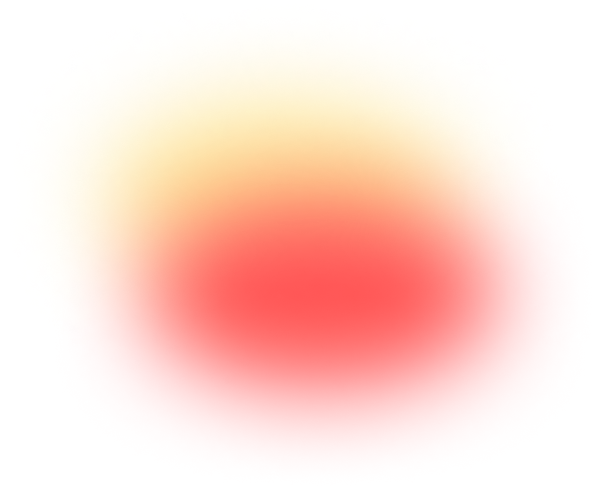
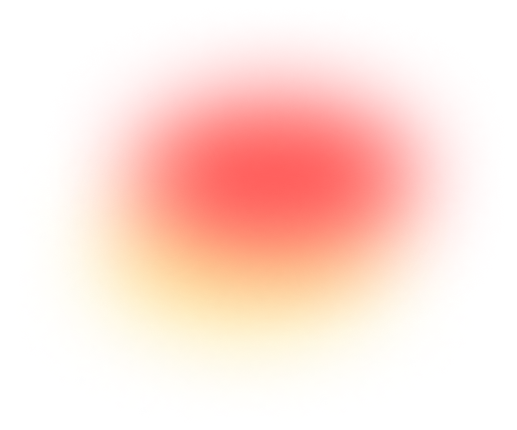
done

diff --git a/index.html b/index.html
@@ -29,11 +29,12 @@
         <section id="Home" class="Home">
             <div class="content">
                 <h1>Make The Best Financial Decisions</h1>
-                <p>Cum et convallis risus placerat aliquam, nunc. Scelerisque aliquet faucibus tincidunt eu adipiscing sociis arcu lorem porttitor.</p>
+                <img class="back-img" src="Assets/Group 35930.png" alt="backing">
+                <p style="color: #808080;">Cum et convallis risus placerat aliquam, nunc. Scelerisque aliquet faucibus tincidunt eu adipiscing sociis arcu lorem porttitor.</p>
                 <div class="actions">
                     <button>Get Started &#8594;</button>
                     <div class="watch-video">
-                        <i class="fa-sharp fa-regular fa-circle-play"></i>
+                        <img src="Assets/Group 3.png" alt="">
                         <h2>Watch Video</h2>
                     </div>
                 </div>
@@ -44,31 +45,34 @@
                 <img src="https://uifry-landing-page-mocha.vercel.app/static/media/iphone.e829d7b2d688d303be39ba1eb8310f8d.svg" alt="Phone">
             </div>
         </section>
-        <section id="Features" class="section" style="display: flex; justify-content: space-between; margin: 0 60px;
-  padding: 2em;"><div class="colour-background"><img src="Assets/features-1.png" alt=""></div>
+        <section id="Features" class="section"><div><img src="Assets/features-1.png" alt=""></div>
         <div style=" padding: 11rem;"><h3>FEATURES</h3><h1>Uifry Premium</h1>
-        <h4>Budgeting Intervals</h4><p>Cum et convallis risus placerat aliquam, nunc. Scelerisque aliquet faucibus tincidunt eu adipiscing sociis arcu lorem porttitor.</p>
-       <h4>Budgeting Intervals</h4><p>Cum et convallis risus placerat aliquam, nunc. Scelerisque aliquet faucibus tincidunt eu adipiscing sociis arcu lorem porttitor.</p>
-<h4>Budgeting Intervals</h4><p>Cum et convallis risus placerat aliquam, nunc. Scelerisque aliquet faucibus tincidunt eu adipiscing sociis arcu lorem porttitor.</p></div></section>
+            <div  class="img-contain">
+                <img class="cube" src="Assets/star-05.png" alt="">
+        <h4>Budgeting Intervals</h4> </div><p>Cum et convallis risus placerat aliquam, nunc. Scelerisque aliquet faucibus tincidunt eu adipiscing sociis arcu lorem porttitor.</p>
+        <div  class="img-contain">
+            <img class="cube" src="Assets/cube-04.png" alt="" >
+    <h4>Budgeting Intervals</h4> </div><p>Cum et convallis risus placerat aliquam, nunc. Scelerisque aliquet faucibus tincidunt eu adipiscing sociis arcu lorem porttitor.</p>
+    <div  class="img-contain">
+        <img class="cube" src="Assets/cube-02.png" alt="">
+<h4>Budgeting Intervals</h4> </div><p>Cum et convallis risus placerat aliquam, nunc. Scelerisque aliquet faucibus tincidunt eu adipiscing sociis arcu lorem porttitor.</p></div></section>
 
-        <section id="Advantages" class="section" style="display: flex; justify-content: space-between; margin: 0 60px;
-  padding: 2em;">
-            <div style="padding: 9.8rem 0;"><h3 style="font-size: 18px; font-weight: 500; line-height: 28px; letter-spacing: 1.8px; color:#ff5555">ADVANTAGES</h3><h1 style="font-size: 48px; font-weight: 800; line-height: 48px;">Why Choose Uifry?</h1>
-            <h4 style="font-size: 28px; font-weight: 600; line-height: 42px;">Clever Notifications</h4><p style="font-size: 16px; line-height: 24px;">Arcu at dictum sapien, mollis. Vulputate sit id accumsan, ultricies. In ultrices malesuada elit mauris etiam odio. Duis tristique lacus, et blandit viverra nisl velit. Sed mattis rhoncus, diam suspendisse sit nunc, gravida eu. Lectus eget eget ac dolor neque lorem sapien, suspendisse aliquam.</p>
+        <section id="Advantages" class="section">
+            <div class="Advantages-div"><h3>ADVANTAGES</h3><h1>Why Choose Uifry?</h1>
+            <h4 ><img src="Assets/Group 35899.png" alt="" style="margin-right: 10px; height: 25px; width: 25px;">Clever Notifications</h4><p>Arcu at dictum sapien, mollis. Vulputate sit id accumsan, ultricies. In ultrices malesuada elit mauris etiam odio. Duis tristique lacus, et blandit viverra nisl velit. Sed mattis rhoncus, diam suspendisse sit nunc, gravida eu. Lectus eget eget ac dolor neque lorem sapien, suspendisse aliquam.</p>
             </div>
-        <div class="colour-background"><img src="https://uifry-landing-page-mocha.vercel.app/static/media/second-img.0e3d2caf1a3a57428add88c63a589437.svg" alt=""></div></section>
+        <div ><img src="Assets/Group 1000004726.png" alt=""></div></section>
             
-        <section id="section4" class="section" style="display: flex; justify-content: space-between; margin: 0 60px;
-  padding: 2em;"><div><img src="https://uifry-landing-page-mocha.vercel.app/static/media/third-img.a8f2cb7788197e3c2031ed2987f278e7.svg" alt=""></div>
-            <div style="padding: 8rem;"><h1 style="font-size: 28px; font-weight: 600; line-height: 42px;">Fully Customizable</h1>
+        <section id="section4" class="section"><div><img src="https://uifry-landing-page-mocha.vercel.app/static/media/third-img.a8f2cb7788197e3c2031ed2987f278e7.svg" alt=""></div>
+            <div style="padding: 8rem;"><h1><img src="Assets/Group 35900.png" alt="" style=" margin-right: 10px; height: 25px; width: 25px;">Fully Customizable</h1>
            <p style="font-size: 16px; line-height: 24px;">Arcu at dictum sapien, mollis. Vulputate sit id accumsan, ultricies. In ultrices malesuada elit mauris etiam odio. Duis tristique lacus, et blandit viverra nisl velit. Sed mattis rhoncus, diam suspendisse sit nunc, gravida eu. Lectus eget eget ac dolor neque lorem sapien, suspendisse aliquam.</p></div></section>
-        <section id="section5" class="section"><div style="text-align: center; margin: 0 60px;
-  padding: 2em;"><h6 style="font-size: 16px; line-height: 24px;">TESTIMONIAL</h6><h1 style="font-size: 36px; font-weight: 700; line-height: 40px">What Our Users Say About Us?</h1></div>
-            <div style="display: flex; justify-content: space-between;"><div class="colour-background"><img src="https://uifry-landing-page-mocha.vercel.app/static/media/img.0594d4199af732a59e88e758da37d3d4.svg" alt=""></div>
-                <div style="padding: 8rem;"><h3 style="font-size: 30px; font-weight: 600; line-height: 36px;">The Best Financial Accounting App Ever!</h3>
+        <section id="section5" class="section"><div style="text-align: center; margin: 0 60px; 
+  padding: 2em;"><h6 style="font-size: 16px; line-height: 24px; color: #ff4500; line-height: 70px;">TESTIMONIAL</h6><h1 style="font-size: 36px; font-weight: 700; line-height: 40px">What Our Users Say About Us?</h1></div>
+            <div style="display: flex; justify-content: space-between;"><div><img src="Assets/Group 1000004727.png" alt=""></div>
+                <div style="padding: 8rem;"><h3 style="font-size: 30px; font-weight: 600; line-height: 36px; ">The Best Financial Accounting App Ever!</h3>
                <p style="font-size: 18px; line-height: 28px; color:#808080">“Arcu at dictum sapien, mollis. Vulputate sit id accumsan, ultricies. In ultrices malesuada elit mauris etiam odio. Duis tristique lacus, et blandit viverra nisl velit. Sed mattis rhoncus, diam suspendisse sit nunc, gravida eu. Lectus eget eget ac dolor neque lorem sapien, suspendisse aliquam.”</p><img src="https://uifry-landing-page-mocha.vercel.app/static/media/user.6d530d352bf215a5c3792e0ff5bf3fc4.svg" alt=""><img src="https://uifry-landing-page-mocha.vercel.app/static/media/user-sec.f1d05c00cf2eb53efb60280a62e9c101.svg" alt=""><h5 style="font-size: 18px; font-weight: 600; line-height: 28px;">Nick Jonas</h5></div></div></section>
 
-               <section id="section6" class="section" style="margin: 0 60px;
+               <section id="section6" class="section" style="margin: 0 60px; 
   padding: 2em;"><div class="title"><h5 style="font-size: 16px; font-weight: 500; line-height: 28px;">FAQ</h5>
             <h1 style="font-size: 48px; font-weight: 700; line-height: 48px;">Frequently Asked <br>Questions</h1></div>
             <div style="display: flex; justify-content: space-between; padding: 38px 0;">
@@ -102,25 +106,38 @@
             </div> </div></section>
             
             <section class="background-section" id="section7">
+
                 <div style="display: flex; flex-direction: column; align-items: start">
                 <h1 style="color: white; font-size: 52px; font-weight: 800; padding-right: 110px;">Ready To Get Started?</h1>
                 <p style="color: white; font-size: 20px; color: #808080; font-weight: 500; line-height: 50px;">Risus habitant leo egestas mauris diam eget morbi tempus vulputate.</p>
-                <button style="padding: 15px 35px; font-size: 16px; font-weight: 500;">Download App</button>
+                <div class="button-img">
+                    <button class="button-with-image">Download App <img src="Assets/apple.png" alt=""></button>
+                </div>
             </div>
             <div> <img src="Assets/iPhone 13 Pro.png" alt=""></div>
               
             </section>
             <!-- New Section with Image, Contact Info, and Links -->
         <section id="contact-links" class="section" style="margin: 0 60px;
-  padding: 7em 3em;">
+  padding: 7em 3em; display: flex;">
             <div class="contact-info" >
                 <div style="display: flex; gap: 8px; line-height: 24px; font-size: 16px;">
                 <img src="Assets/logo.png" alt="logo">
                 <img src="Assets/Vector.png" alt="name">
             </div>
                 <div class="contact-details">
+                    <div style="display: flex;  gap: 8px">
+                    <img src="Assets/mail.svg" alt="">
+              
+                
                     <p style="line-height: 24px; font-size: 16px;">help@frybix.com</p>
+                </div>
+                    <div style="display: flex ;  gap: 8px">
+                    <img src="Assets/phone.svg" alt="">
+              
                     <p style="line-height: 24px; font-size: 16px;">+123 445 667 889</p>
+                </div>
+             
                 </div>
             </div>
             <div class="links-info">

diff --git a/style.css b/style.css
@@ -99,11 +99,19 @@ main {
   flex: 1;
   padding: 1em;
 }
+#Home .back-img {
+  left: 20%;
+  position: absolute;
+  top: 40px;
+  right: 50px;
+  width: 30%;
+  z-index: -1;
+}
 
 #Home h1 {
   font-size: 60px;
   font-weight: bolder;
-  line-height: 1.0;
+  line-height: 1;
 }
 
 #Home p {
@@ -114,6 +122,7 @@ main {
 #Home .actions {
   display: flex;
   align-items: center;
+  
 }
 
 #Home .actions button {
@@ -140,6 +149,7 @@ main {
   font-weight: 500;
   padding: 30px;
   cursor: pointer;
+  gap:10px
 }
 
 .watch-video i {
@@ -151,10 +161,9 @@ main {
   color: var(--custom-color);
 }
 
-.watch-video h2{
-font-size: 20px; 
-font-weight: 600; 
-
+.watch-video h2 {
+  font-size: 20px;
+  font-weight: 600;
 }
 /* colour background */
 
@@ -167,6 +176,7 @@ font-weight: 600;
   align-items: flex-end;
   justify-content: flex-end;
 }
+
 .box {
   color: var(--primary-color);
   background-color: var(--custom-color);
@@ -192,6 +202,13 @@ font-weight: 600;
   font-weight: 600;
   margin: 20px;
 }
+
+#Features {
+  display: flex;
+  justify-content: space-between;
+  margin: 0 60px;
+  padding: 2em;
+}
 #Features img {
   color: transparent;
   width: auto;
@@ -209,7 +226,7 @@ font-weight: 600;
 #Features h1 {
   font-size: 48px;
   font-weight: 800;
-  line-height: 48px;
+  line-height: 80px;
 }
 #Features h4 {
   font-size: 18px;
@@ -220,6 +237,47 @@ font-weight: 600;
   font-size: 16px;
   line-height: 24px;
   color: #808080;
+}
+
+#Features .cube {
+  color: rgb(255, 85, 85);
+  height: 20px;
+  width: 20px;
+  margin-left: 1px;
+}
+#Features .img-contain {
+  display: flex;
+  gap: 8px;
+}
+/* Advantages */
+
+#Advantages{
+  display: flex; justify-content: space-between; margin: 0 60px;
+  padding: 2em;
+}
+.Advantages-div{
+  padding: 9.8rem 0;
+}
+#Advantages h3{
+  font-size: 18px; font-weight: 500; line-height: 28px; letter-spacing: 1.8px; color:#ff5555
+}
+#Advantages h4{
+  font-size: 24px; font-weight: 600; line-height: 42px;
+}
+#Advantages h1{
+font-size: 48px; font-weight: 800; line-height: 80px;}
+#Advantages p{
+  font-size: 16px; line-height: 24px;
+}
+
+/* section 4 */
+
+#section4{
+  display: flex; justify-content: space-between; margin: 0 60px;
+  padding: 2em;
+}
+#section4 h1{
+  font-size: 28px; font-weight: 600; line-height: 80px;
 }
 /* image section */
 .background-section {
@@ -234,10 +292,33 @@ font-weight: 600;
   margin: 0 auto;
   border-radius: 8px;
 }
+.background-section .button-with-image {
+  padding: 12px 32px;
+  font-size: 18px;
+  font-weight: 600;
+  display: inline-flex;
+  align-items: center;
+  background: var(--primary-color);
+  color: var(--indicator-color);
+  border: none;
+  border-radius: 5px;
+  cursor: pointer;
+  transition: background-color 0.3s ease;
+}
+
+.background-section .button-with-image img {
+  margin-left: 10px;
+  width: 35px; /* Adjust the width as needed */
+  height: 35px; /* Adjust the height as needed */
+}
+
+.background-section .button-with-image:hover {
+  background-color: #ff4500;
+}
 
 /* Contact and Links Section */
 #contact-links {
-  display: flex;
+  dmgsplay: flex;
   align-items: flex-start;
   padding: 2em;
 }
